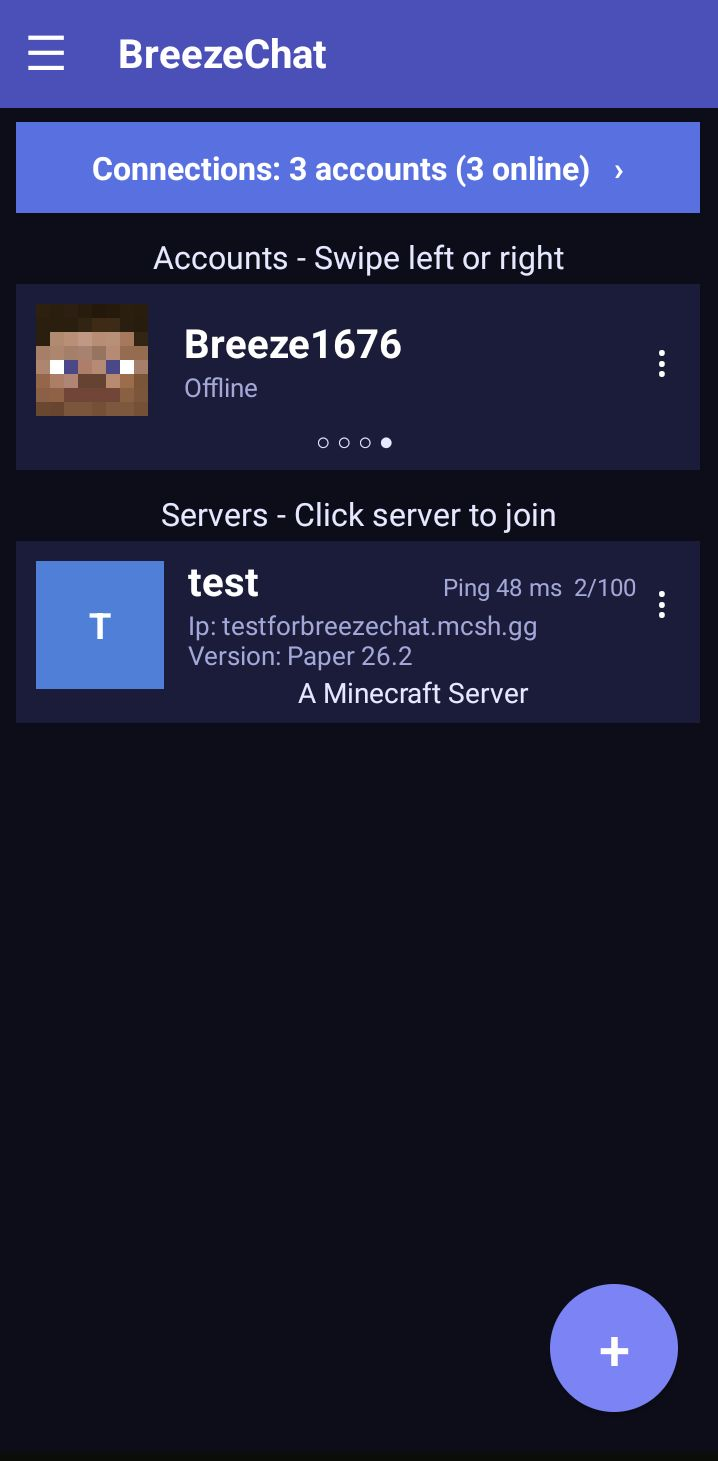
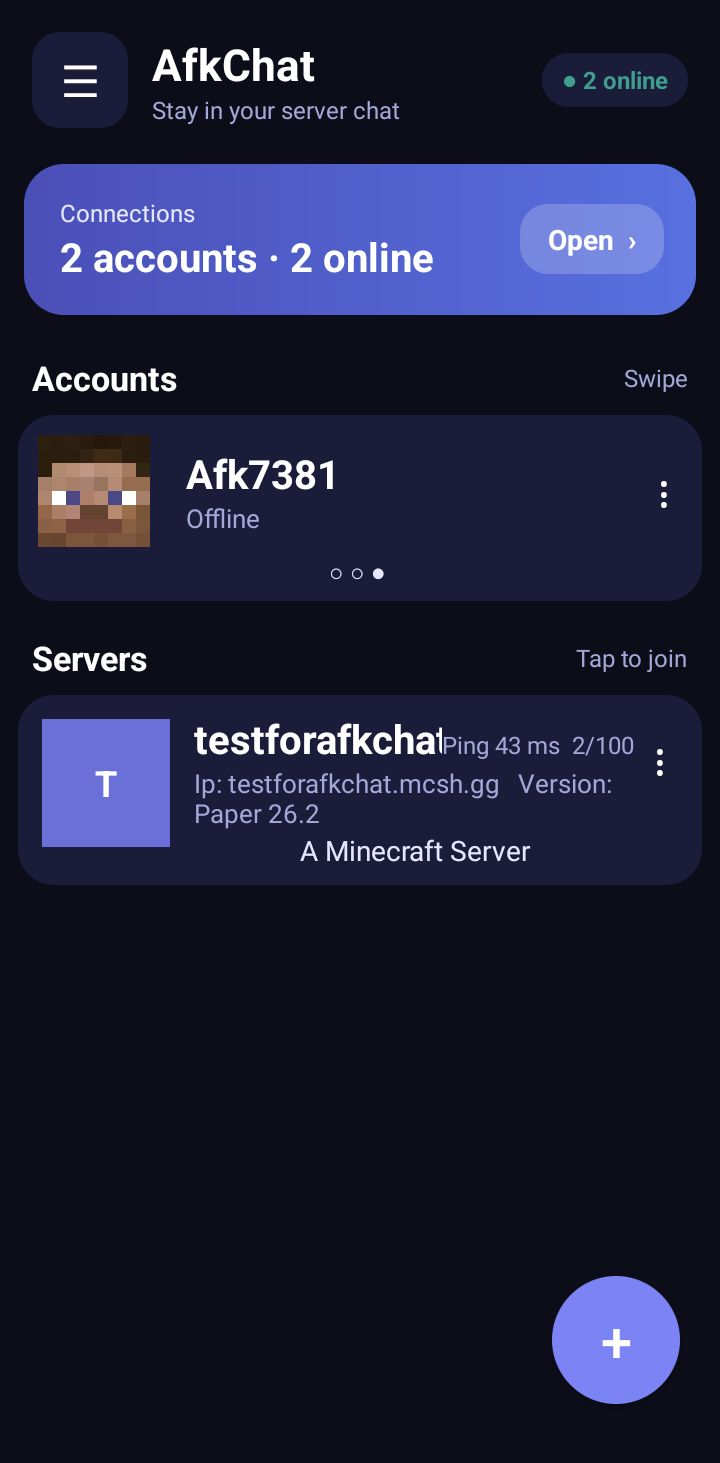
README: rename to AfkChat, new screenshots, note about BreezeChat
Claude-Session: https://claude.ai/code/session_01FedobH9ELeiqm1mvgAjR2N

diff --git a/README.md b/README.md
@@ -1,23 +1,25 @@
-# 🌬 BreezeChat
+# 💤 AfkChat
 
 **Stay in your Minecraft server chat from your phone. No game needed.**
 
-BreezeChat is a lightweight Minecraft: Java Edition chat client for Android. Join servers, chat, keep several accounts online in the background and look around on a live minimap, all with very little battery and data.
+AfkChat is a lightweight Minecraft: Java Edition chat client for Android. Join servers, chat, keep several accounts online in the background and look around on a live minimap, all with very little battery and data.
 
 > Beta software, fan-made. Not affiliated with, endorsed by, or connected to Mojang or Microsoft.
 
-> **Name notice:** other apps or projects may share the name "BreezeChat" or "BreezeChats" but do something different. For example, [BreezeChats](https://github.com/ebenezerdon/breezechats) is a web chat that runs an AI model in the browser, and [BreezeChat by SAMi-Rn](https://github.com/SAMi-Rn/BreezeChat) is a real-time web chat built with React and Node.js. This project is a Minecraft: Java Edition chat client for Android and is not related to them.
+> **Formerly BreezeChat.** AfkChat is the new name of this app. Earlier versions were released as **BreezeChat** (package `com.breezechat.gem`). AfkChat is a separate app (`com.afkchat.gem`) with a new signing key, so it installs next to the old one and does not update it. You can uninstall BreezeChat after you move over. Accounts, servers and waypoints can be moved with the backup feature (rename the old `BreezeChat-backup` folder to `AfkChat-backup`).
+
+> **Name notice:** other apps or projects may share a similar name but do something different. For example, [BreezeChats](https://github.com/ebenezerdon/breezechats) is a web chat that runs an AI model in the browser, and [BreezeChat by SAMi-Rn](https://github.com/SAMi-Rn/BreezeChat) is a real-time web chat built with React and Node.js. This project is a Minecraft: Java Edition chat client for Android and is not related to them.
 
 ---
 
 ## 🤖 Made with AI (please read)
 
-BreezeChat is **vibe-coded** ("slop-coded", if you like). Almost all of the code was written by an AI assistant ([Claude](https://claude.ai) by Anthropic). The maintainer ([@gembiltoo](https://github.com/gembiltoo)) comes up with the features, sends bug reports and screenshots, and tests every build on a real phone and real servers. The whole app is built on an Android phone, with no PC.
+AfkChat is **vibe-coded** ("slop-coded", if you like). Almost all of the code was written by an AI assistant ([Claude](https://claude.ai) by Anthropic). The maintainer ([@gembiltoo](https://github.com/gembiltoo)) comes up with the features, sends bug reports and screenshots, and tests every build on a real phone and real servers. The whole app is built on an Android phone, with no PC.
 
 What that means for you:
 
 - 🐛 **Expect bugs.** It is normal to find bugs, since everything is made on a phone. The code has not had a professional review or a security audit, and not every feature has been tried on every server.
-- 🔐 **Look before you trust it with an account.** Online accounts sign in on the official Microsoft device-code page, and BreezeChat never sees your Microsoft password. Offline-account passwords (used for automatic `/login`) are stored only on your phone. BreezeChat has no ads and no analytics of its own. It only talks to Minecraft servers, Microsoft/Mojang sign-in, GitHub (the update check) and a free web translation service when you translate a chat line.
+- 🔐 **Look before you trust it with an account.** Online accounts sign in on the official Microsoft device-code page, and AfkChat never sees your Microsoft password. Offline-account passwords (used for automatic `/login`) are stored only on your phone. AfkChat has no ads and no analytics of its own. It only talks to Minecraft servers, Microsoft/Mojang sign-in, GitHub (the update check) and a free web translation service when you translate a chat line.
 - 🔍 **The source is small and readable.** It is plain Java in a few files. Read it, break it, fix it.
 - 🤝 **Issues and pull requests are welcome**, from humans and from AIs.
 
@@ -37,7 +39,7 @@ What that means for you:
 **Accounts and staying online**
 - 👤 Many accounts at once: offline and Microsoft, connect or leave them all in one tap
 - 🌙 Background mode, auto login, auto respawn, **auto reconnect** (waits longer after each failed try; no retry on bans or whitelists)
-- ⏰ **Schedule account**: pick accounts (or all), pick servers (or all), and a time, and BreezeChat connects them for you. Set the time as a delay (`2d 5h 30min 10s`: s = seconds, min = minutes, h = hours, d = days, m = months) or on a date with the month by name (for example 7 November, 19:30). View, edit or delete schedules from the ☰ menu. Keep BreezeChat running or connected, because schedules only start while the app is alive
+- ⏰ **Schedule account**: pick accounts (or all), pick servers (or all), and a time, and AfkChat connects them for you. Set the time as a delay (`2d 5h 30min 10s`: s = seconds, min = minutes, h = hours, d = days, m = months) or on a date with the month by name (for example 7 November, 19:30). View, edit or delete schedules from the ☰ menu. Keep AfkChat running or connected, because schedules only start while the app is alive
 - 🛡 **Anti-kick AFK** with a method you choose: Jump, Swing arm, Sneak, Walk, Turn or Quiet
 - 📊 **Session stats**: online time, distance walked, deaths, messages, reconnects, biome and world
 
@@ -53,7 +55,7 @@ What that means for you:
 **Inventory and trading**
 - 🎒 Java-style inventory with your character, armor, held item, durability bars and leather armor colours
 - 📦 **Open chests, barrels, ender chests and shulker boxes from the map**, with **Take all**, **Quick stack** and **Put backpack** buttons
-- 🧑🌾 **Trade with villagers from the map**: tap one on the minimap, pick a trade, BreezeChat fills the items for you
+- 🧑🌾 **Trade with villagers from the map**: tap one on the minimap, pick a trade, AfkChat fills the items for you
 - 🧰 Mini inventory and hotbar under the map
 
 **App**
@@ -66,10 +68,9 @@ What that means for you:
 
 | | |
 |---|---|
-| <img src="screenshots/1-main-menu.jpg" width="260"><br>**Main menu.** Your accounts (swipe left or right), your servers with ping and player count, and a **Connections** bar showing every running session. The **+** button adds a server. The **☰ button at the top left** opens the other menus: quick commands, session stats, chat alerts, settings and help. | <img src="screenshots/1b-chat.jpg" width="260"><br>**Chat.** Chat and commands with the **Cmd** button. Each account has its own tab, and **+** adds another account. **Press and hold a message** for a menu: reply (/msg), ignore the player, translate (Indonesian or English), copy. |
-| <img src="screenshots/2-join.jpg" width="260"><br>**Join a server.** Tap a server and choose which account joins, or **Connect all accounts** to bring them all online. | <img src="screenshots/3-player-list.jpg" width="260"><br>**Player list.** Everyone online with ping, and a search box to find a player fast. **Tap a player** for a menu: send a private message, follow, request teleport (/tpa), copy the name, or run your own saved commands (use `{player}` for their name). |
-| <img src="screenshots/4-map.jpg" width="260"><br>**Map and movement.** Live minimap with players and mobs, zoom, waypoints (📍) and minimap settings (⚙), hotbar, joystick, sneak, and a pad to look around. | <img src="screenshots/5-inventory.jpg" width="260"><br>**Inventory.** Armor, your character, off hand, backpack and hotbar. Tap to pick up or put down, hold to right click, double tap for options. |
-| <img src="screenshots/6-commands.jpg" width="260"><br>**Commands.** Browse the server's own command list, save your own commands, or complete a player name. |  |
+| <img src="screenshots/1-main-menu.jpg" width="260"><br>**Main menu.** Your accounts (swipe left or right), your servers with ping and player count, and a **Connections** card showing every running session. The **+** button adds a server. Tap a server to join with the account you choose, or connect all accounts at once. The **☰ button at the top left** opens the other menus: quick commands, schedule account, session stats, chat alerts, settings and help. | <img src="screenshots/1b-chat.jpg" width="260"><br>**Chat.** Chat and commands with the **Cmd** button. Each account has its own tab, and **+** adds another account. **Press and hold a message** for a menu: reply (/msg), ignore the player, translate (Indonesian or English), copy. The bar at the bottom switches between Chat, Players, Bag and Map. |
+| <img src="screenshots/3-player-list.jpg" width="260"><br>**Player list.** Everyone online with ping, and a search box to find a player fast. **Tap a player** for a menu: send a private message, follow, request teleport (/tpa), copy the name, or run your own saved commands (use `{player}` for their name). | <img src="screenshots/4-map.jpg" width="260"><br>**Map and movement.** Live minimap with players and mobs, zoom, waypoints (📍) and minimap settings (⚙), hotbar, joystick and sneak. |
+| <img src="screenshots/5-inventory.jpg" width="260"><br>**Inventory.** Armor, your character, off hand, backpack and hotbar. Tap to pick up or put down, hold to right click, double tap for options. | <img src="screenshots/6-commands.jpg" width="260"><br>**Commands.** Browse the server's own command list, save your own commands, or complete a player name. |
 
 ## 🎮 Supported versions
 
@@ -82,9 +83,9 @@ Pick the server's version in the server form. If a server refuses the connection
 
 ## 📲 Download and install
 
-1. Open the [**Releases**](https://github.com/gembiltoo/BreezeChat/releases) page and download the newest `.apk`.
+1. Open the [**Releases**](https://github.com/gembiltoo/AfkChat/releases) page and download the newest `.apk`.
 2. Open the file. Android may ask you to allow installing apps from your browser or file manager.
-3. Open BreezeChat. The app is in **English** at first; change it in **⚙ Settings → Language**.
+3. Open AfkChat. The app is in **English** at first; change it in **⚙ Settings → Language**.
 
 ## 🚀 Quick start
 
@@ -97,7 +98,7 @@ Pick the server's version in the server form. If a server refuses the connection
 
 ## 🕹 Using the game screen
 
-The top bar has four tabs: 💬 chat, 👥 players, 🎒 inventory, 📍 map and movement.
+The bar at the bottom has four tabs: 💬 Chat, 👥 Players, 🎒 Bag (inventory), 📍 Map (map and movement).
 
 - **Chat**: type a message or a `/command`. **Cmds** opens saved commands and the server's command list. Press and hold a chat line for reply, ignore, translate or copy.
 - **Players**: tap a player to send a private message, follow, `/tpa` or run your saved commands. The **Player list** button at the top searches every online player.
@@ -106,16 +107,16 @@ The top bar has four tabs: 💬 chat, 👥 players, 🎒 inventory, 📍 map and
 
 ## 🔋 Staying online in the background
 
-Some phones (Samsung, Xiaomi and others) stop apps that run in the background, and the server then disconnects you with "Timed out". In **Settings → Stay connected in the background**, open the battery list and set BreezeChat to **Unrestricted**. Keep the notification visible: it has **Open** and **Leave all** buttons.
+Some phones (Samsung, Xiaomi and others) stop apps that run in the background, and the server then disconnects you with "Timed out". In **Settings → Stay connected in the background**, open the battery list and set AfkChat to **Unrestricted**. Keep the notification visible: it has **Open** and **Leave all** buttons.
 
 ## 🛠 Build it yourself
 
-BreezeChat is a set of plain Java files, made to be built in an Android app builder on a phone.
+AfkChat is a set of plain Java files, made to be built in an Android app builder on a phone.
 
-1. Create a project with the package name **`com.breezechat.gem`**.
-2. Put the Java files (`BreezeAuth`, `BreezeBlocks`, `BreezeChatUI`, `BreezeClient`, `BreezeItems`, `BreezeLang`, `BreezeService`) in the project's `java` folder.
-3. Register `com.breezechat.gem.BreezeService` as a service in the AndroidManifest and add the permissions: INTERNET, FOREGROUND_SERVICE, POST_NOTIFICATIONS, WAKE_LOCK and VIBRATE (VIBRATE is only for chat alerts).
-4. From the main activity, create `BreezeChatUI` and show its view (see `BreezeChatUI.build()`), and pass shortcut extras (`bc_srv`, `bc_acc`) to it.
+1. Create a project with the package name **`com.afkchat.gem`**.
+2. Put the Java files (`AfkAuth`, `AfkBlocks`, `AfkChatUI`, `AfkClient`, `AfkItems`, `AfkLang`, `AfkService`) in the project's `java` folder.
+3. Register `com.afkchat.gem.AfkService` as a service in the AndroidManifest and add the permissions: INTERNET, FOREGROUND_SERVICE, POST_NOTIFICATIONS, WAKE_LOCK and VIBRATE (VIBRATE is only for chat alerts).
+4. From the main activity, create `AfkChatUI` and show its view (see `AfkChatUI.build()`), and pass shortcut extras (`bc_srv`, `bc_acc`) to it.
 
 ## ⚠ Known limitations
 
@@ -132,9 +133,9 @@ BreezeChat is a set of plain Java files, made to be built in an Android app buil
 
 ## 🐞 Feedback
 
-Found a bug? Open an [issue](https://github.com/gembiltoo/BreezeChat/issues) and include:
+Found a bug? Open an [issue](https://github.com/gembiltoo/AfkChat/issues) and include:
 
-- BreezeChat version, phone model and Android version
+- AfkChat version, phone model and Android version
 - Server version, and plugins if you know them (login, menus)
 - What you did, what you expected, what happened
 - A screenshot or the exact message shown in the app
